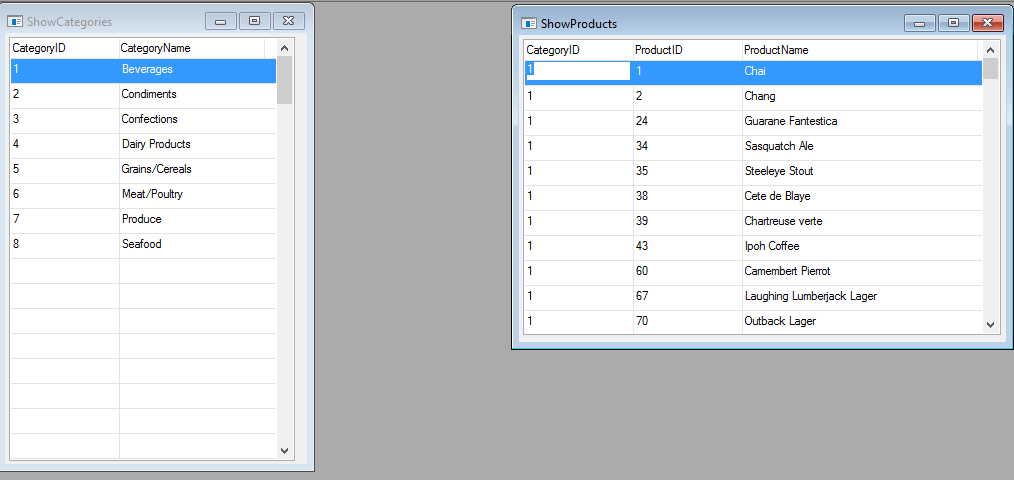
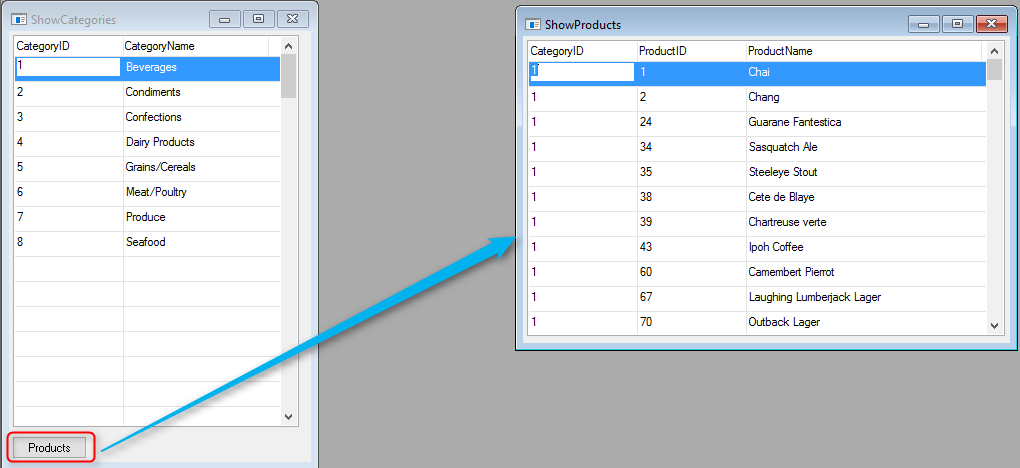
update result

Changed region(s): [[0.0, 0.0, 1.0, 1.0]]

diff --git a/01-Development/01-Developer-Guide/21-Child-Forms-and-KeepViewVisibleAfterExit/02-Exercise-KeepViewVisibleAfterExit/01-Exercise-KeepViewVisibleAfterExit-results.md b/01-Development/01-Developer-Guide/21-Child-Forms-and-KeepViewVisibleAfterExit/02-Exercise-KeepViewVisibleAfterExit/01-Exercise-KeepViewVisibleAfterExit-results.md
@@ -69,14 +69,41 @@ namespace Northwind.Exercises.KeepViewVisibleAfterExit
         {
             View = () => new Views.ShowCategoriesView(this);
         }
-+       protected override void OnEnterRow()
+    }
+}
+```
+Your **ShowCategoriesView** class should look like :
+```csdiff
+using System;
+using System.Collections.Generic;
+using System.ComponentModel;
+using System.Data;
+using System.Drawing;
+using System.Text;
+using System.Windows.Forms;
+using Firefly.Box;
+using Firefly.Box.UI.Advanced;
+using ENV;
+using ENV.Data;
+
+namespace Northwind.Exercises.KeepViewVisibleAfterExit.Views
+{
+    partial class ShowCategoriesView : Shared.Theme.Controls.Form
+    {
+        ShowCategories _controller;
+        public ShowCategoriesView(ShowCategories controller)
+        {
+            _controller = controller;
+            InitializeComponent();
+        }
+
++       private void button1_Click(object sender, ButtonClickEventArgs e)
 +       {
-+           Cached<ShowProducts>().Run(Categories.CategoryID);
++           new ShowProducts().Run(_controller.Categories.CategoryID);
 +       }
     }
 }
 ```
-
 The **ShowProducts** location need to be set as :  
 ![2017-05-29_15h09_21](2017-05-29_15h09_21.png) 
   

diff --git a/01-Development/01-Developer-Guide/21-Child-Forms-and-KeepViewVisibleAfterExit/02-Exercise-KeepViewVisibleAfterExit/index.md b/01-Development/01-Developer-Guide/21-Child-Forms-and-KeepViewVisibleAfterExit/02-Exercise-KeepViewVisibleAfterExit/index.md
@@ -15,7 +15,7 @@
         1. Place a grid with the Categories details with the following:
            1.  CategoryID.  
            2.  CategoryName.  
-        2. Call using **Cache** to **ShowProducts** from the **OnEnterRow** method.  
+        2. Place a button name it **Products**, call the  **ShowProducts** from the click event.  
 3. Add **ShowCategories** to the **ApplicationMdi**.
 4. Build and Test 
 
